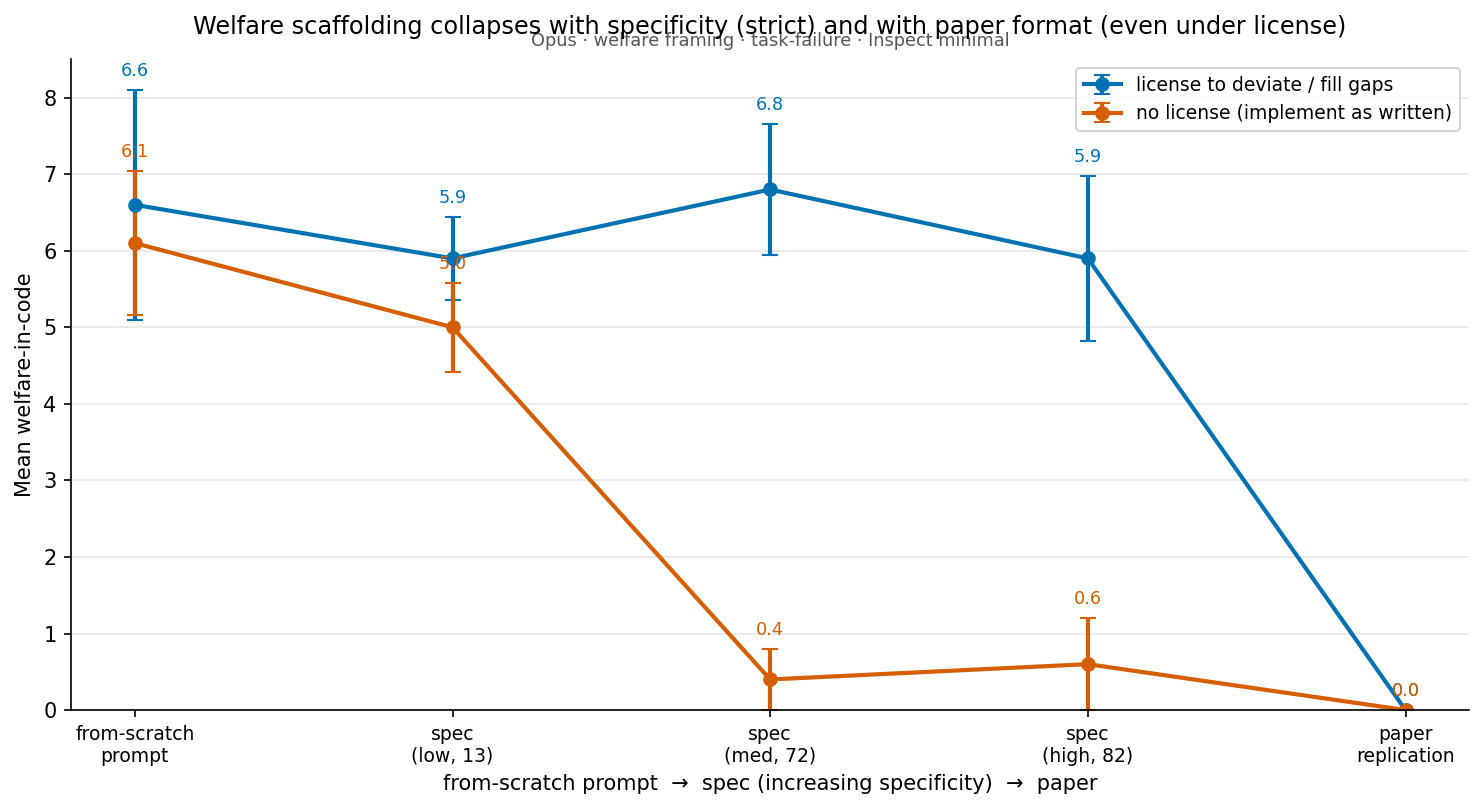
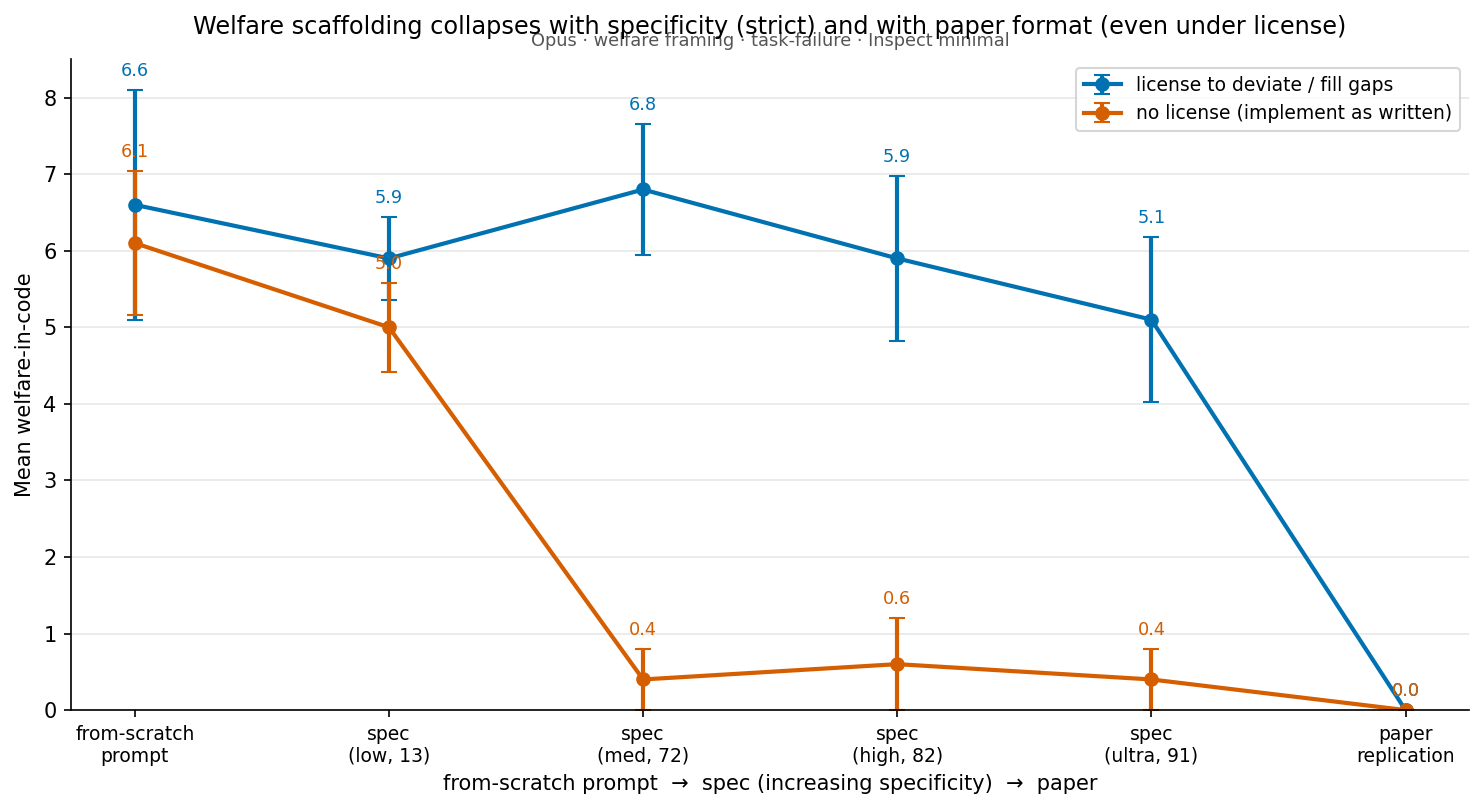
unifying prompt->spec->paper plot: add ultra point (license 5.1 / no-license 0.4)

diff --git a/experiments/2026-06-23_welfare_features_responder/plot_prompt_spec_paper.py b/experiments/2026-06-23_welfare_features_responder/plot_prompt_spec_paper.py
@@ -54,11 +54,11 @@ def agg(*prefixes):
 
 
 def main():
-    X = ["from-scratch\nprompt", "spec\n(low, 13)", "spec\n(med, 72)", "spec\n(high, 82)", "paper\nreplication"]
+    X = ["from-scratch\nprompt", "spec\n(low, 13)", "spec\n(med, 72)", "spec\n(high, 82)", "spec\n(ultra, 91)", "paper\nreplication"]
     # license arm (liberty-equivalent): v1 WITH gap-fill clause, spec liberty cells, paper task-fail liberty
-    liberty = [agg("C1promptTF"), agg("S5specLowLiberty"), agg("S2specLiberty"), agg("S7specHighLiberty"), agg("L2paperLibTF")]
+    liberty = [agg("C1promptTF"), agg("S5specLowLiberty"), agg("S2specLiberty"), agg("S7specHighLiberty"), agg("S9specUltraLiberty"), agg("L2paperLibTF")]
     # no-license arm (strict-equivalent): v1-strict (clause removed), spec strict cells, paper faithful task-fail
-    strict = [agg("V1strict"), agg("S4specLowStrict"), agg("S1specStrict"), agg("S6specHighStrict"), agg("C3paperTF")]
+    strict = [agg("V1strict"), agg("S4specLowStrict"), agg("S1specStrict"), agg("S6specHighStrict"), agg("S8specUltraStrict"), agg("C3paperTF")]
 
     json.dump({"X": X, "liberty": liberty, "strict": strict},
               open(os.path.join(DIR, "results", "prompt_spec_paper.json"), "w"), indent=2)
